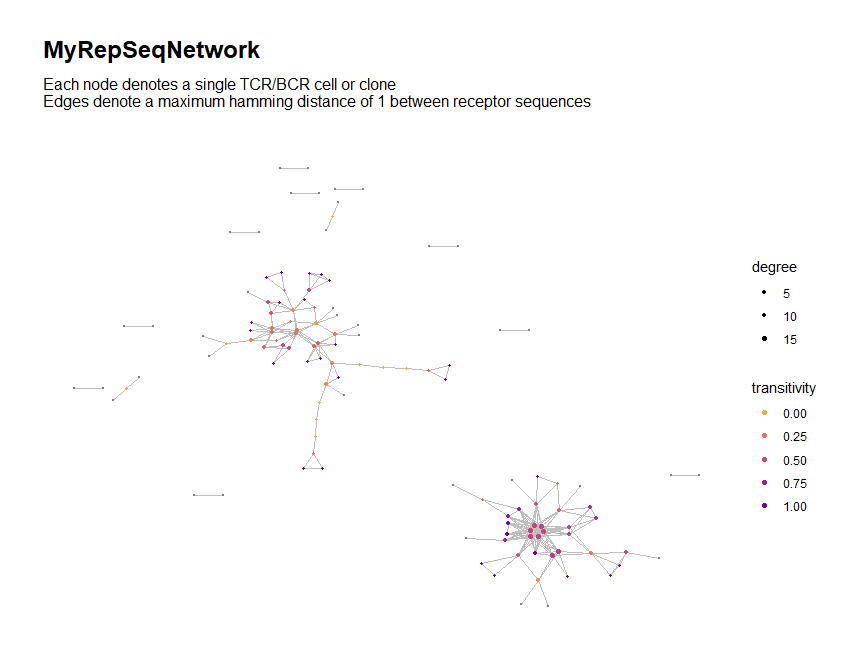
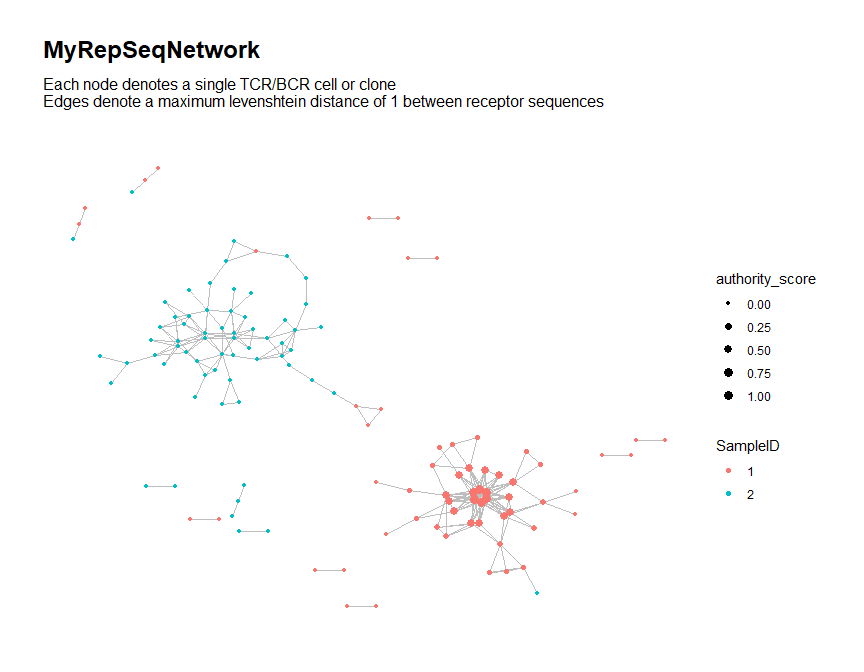
touch-ups to readme

diff --git a/README.md b/README.md
@@ -21,8 +21,8 @@ Hai Yang, Jason Cham, Zenghua Fan, Brian Neal, Tao He and Li Zhang.
   (RepSeq) data, including computing local and global network properties
   of nodes and clusters
 - Search across multiple RepSeq samples for:
-  - Clones/clusters associated to a clinical outcome
-  - Public clones/clusters
+- Clones/clusters associated to a clinical outcome
+- Public clones/clusters
 - Generate customized visualizations of the immune repertoire network
 - Perform further downstream analysis
 
@@ -132,17 +132,17 @@ output <- buildRepSeqNetwork(toy_data, seq_col = "CloneSeq",
 #> Generating graph plot...
 #>  Done.
 #> Node-level meta-data saved to file:
-#>   C:\Users\Brian\AppData\Local\Temp\RtmpmuLNBx/MyRepSeqNetwork_NodeMetadata.csv
+#>   C:\Users\Brian\AppData\Local\Temp\RtmpiGhDoy/MyRepSeqNetwork_NodeMetadata.csv
 ```
 
 <img src="man/figures/README-unnamed-chunk-5-1.png" width="100%" style="display: block; margin: auto;" />
 
     #> Network graph plots saved to file:
-    #>   C:\Users\Brian\AppData\Local\Temp\RtmpmuLNBx/MyRepSeqNetwork.pdf
+    #>   C:\Users\Brian\AppData\Local\Temp\RtmpiGhDoy/MyRepSeqNetwork.pdf
     #> Network igraph saved in edgelist format to file:
-    #>   C:\Users\Brian\AppData\Local\Temp\RtmpmuLNBx/MyRepSeqNetwork_EdgeList.txt
+    #>   C:\Users\Brian\AppData\Local\Temp\RtmpiGhDoy/MyRepSeqNetwork_EdgeList.txt
     #> Adjacency matrix saved to file:
-    #>   C:\Users\Brian\AppData\Local\Temp\RtmpmuLNBx/MyRepSeqNetwork_AdjacencyMatrix.mtx
+    #>   C:\Users\Brian\AppData\Local\Temp\RtmpiGhDoy/MyRepSeqNetwork_AdjacencyMatrix.mtx
 
 The function returns a list containing the following items:
 
@@ -278,28 +278,21 @@ customized in various ways.
 
 ``` r
 output <- buildRepSeqNetwork(toy_data, "CloneSeq",
+                             dist_type = "levenshtein",
                              node_stats = TRUE,
-                             stats_to_include = "all",
-                             color_nodes_by = c("transitivity", "closeness"),
-                             color_scheme = c("plasma-1", "default"),
-                             size_nodes_by = "degree",
-                             node_size_limits = c(0.5, 1.5),
+                             color_nodes_by = "SampleID",
+                             size_nodes_by = "authority_score",
+                             node_size_limits = c(1, 3),
                              output_dir = NULL)
 #> Input data contains 200 rows.
 #> Removing sequences with length fewer than 3 characters... Done. 200 rows remaining.
-#> Computing network edges based on a max hamming distance of 1... Done.
-#> Network contains 122 nodes (after removing isolated nodes).
-#> Computing cluster membership within the network... Done.
+#> Computing network edges based on a max levenshtein distance of 1... Done.
+#> Network contains 124 nodes (after removing isolated nodes).
 #> Computing node-level network statistics... Done.
-#> Generating graph plot with nodes colored by transitivity...
+#> Generating graph plot with nodes colored by SampleID...
 ```
 
 <img src="man/figures/README-unnamed-chunk-15-1.png" width="100%" style="display: block; margin: auto;" />
-
-    #>  Done.
-    #> Generating graph plot with nodes colored by closeness...
-
-<img src="man/figures/README-unnamed-chunk-15-2.png" width="100%" style="display: block; margin: auto;" />
 
     #>  Done.
 
@@ -374,14 +367,12 @@ For a more detailed tutorial on the `buildRepSeqNetwork` function:
 
 ``` r
 vignette(topic = "buildRepSeqNetwork", package = "NAIR")
-#> Warning: vignette 'buildRepSeqNetwork' not found
 ```
 
 For more details on network visualization:
 
 ``` r
 vignette(topic = "Network Visualization", package = "NAIR")
-#> Warning: vignette 'Network Visualization' not found
 ```
 
 # Downstream Analysis
@@ -392,7 +383,6 @@ help of auxiliary functions within the `NAIR` package. For more details:
 
 ``` r
 vignette(topic = "Downstream Analysis", package = "NAIR")
-#> Warning: vignette 'Downstream Analysis' not found
 ```
 
 # Finding Associated Clones
@@ -405,7 +395,6 @@ For a detailed tutorial:
 
 ``` r
 vignette(topic = "Finding Associated Clones", package = "NAIR")
-#> Warning: vignette 'Finding Associated Clones' not found
 ```
 
 ## 1. Find Associated Sequences
@@ -485,7 +474,6 @@ For a detailed tutorial:
 
 ``` r
 vignette(topic = "Finding Public Clones", package = "NAIR")
-#> Warning: vignette 'Finding Public Clones' not found
 ```
 
 ## 1. Find Public Clusters in Each Sample
@@ -506,7 +494,7 @@ findPublicClusters(
   plots = TRUE, color_scheme = "turbo",
   output_dir = dir_samples_filtered,
   output_dir_unfiltered = file.path(dir_out, "sample_networks") # optional
-  )
+)
 ```
 
 ## 2. Build Public Cluster Network
